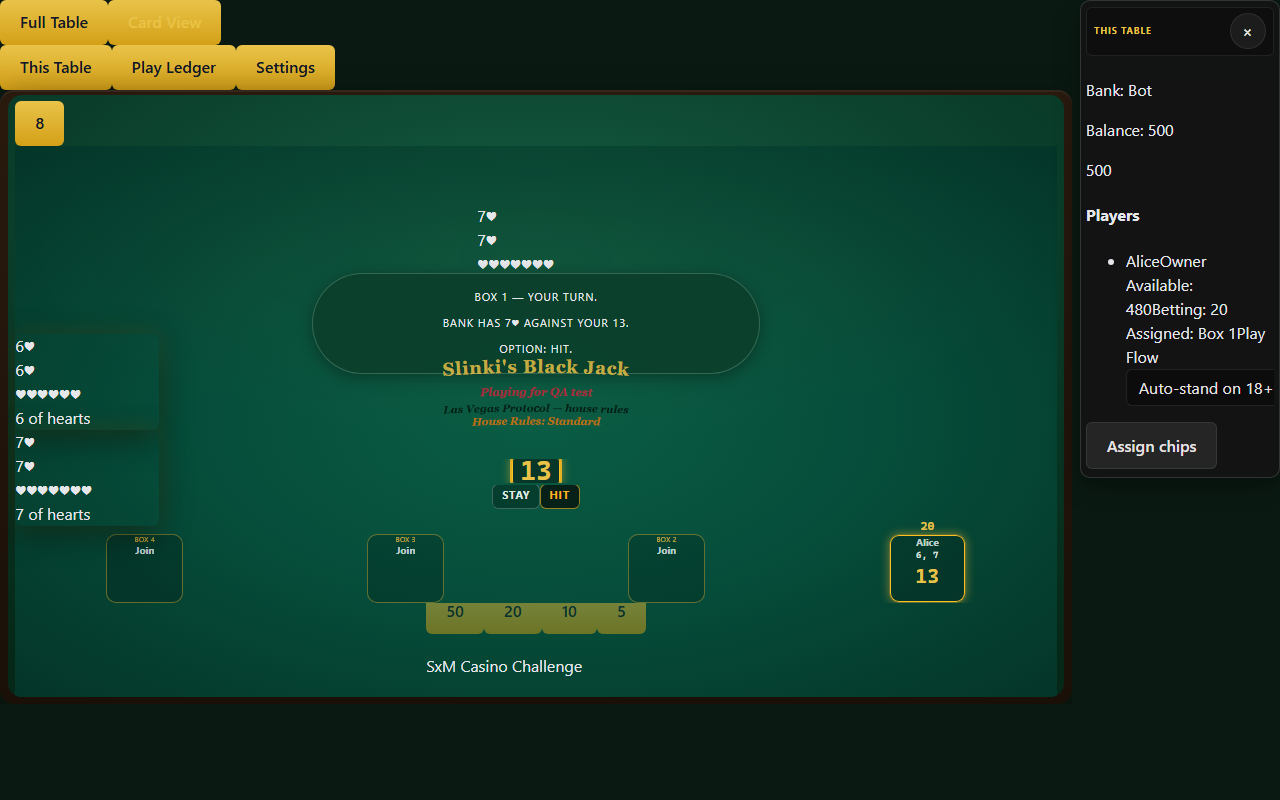
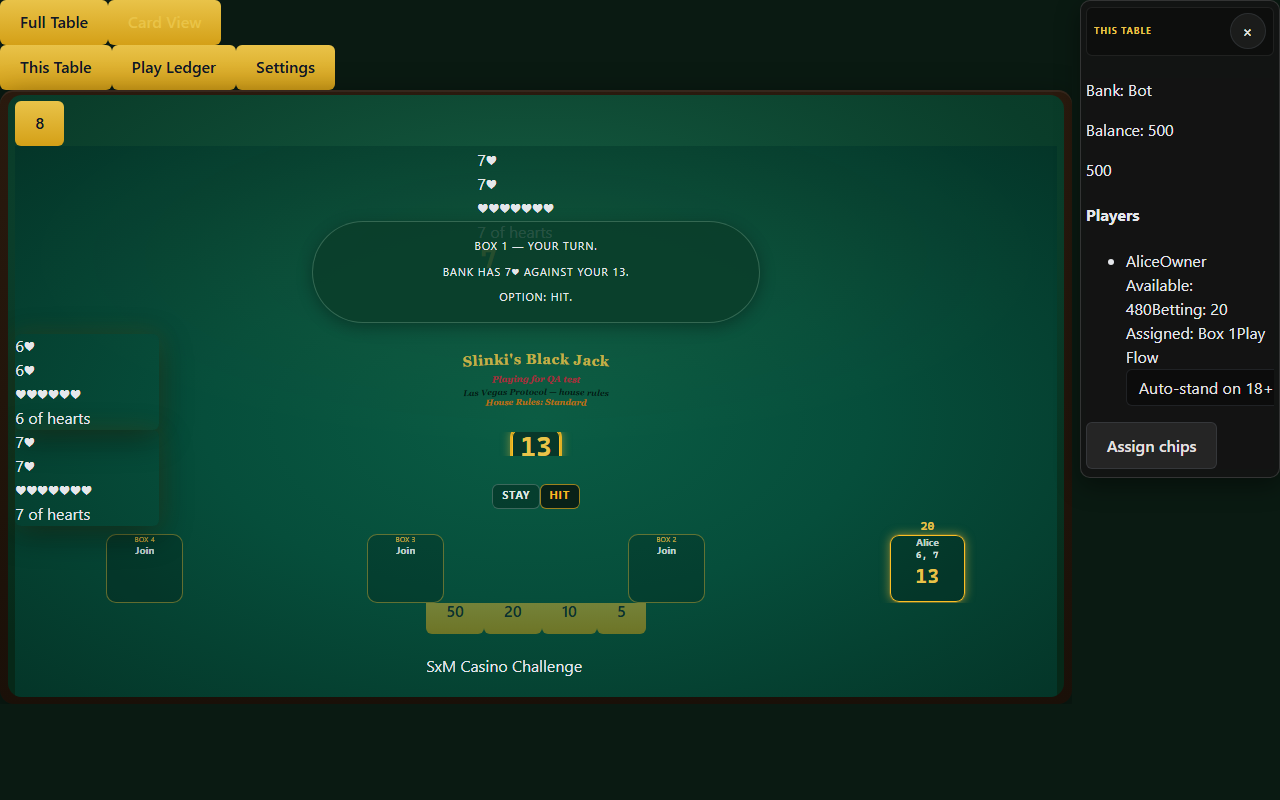
Rollback card view regressions and restore double prompts

Changed region(s): [[0.3438, 0.1875, 0.5, 0.625]]

diff --git a/src/styles/bj-card-desktop-layout.css b/src/styles/bj-card-desktop-layout.css
@@ -11,11 +11,11 @@
     --bj-card-desktop-box-value-scale: 2.2;
     --bj-desktop-cardview-hero-value-scale: 1;
     --bj-card-desktop-actions-boxes-gap: 0.3125rem;
-    --bj-desktop-zone-actions-height: var(--bj-full-desktop-zone-actions-height, 1.55rem);
+    --bj-desktop-zone-actions-height: 3.35rem;
     --bj-desktop-card-area-bottom-gap: 0;
     --bj-command-cards-gap: 0;
-    --bj-cards-actions-gap: var(--bj-full-desktop-cards-actions-gap, 0.125rem);
-    --bj-dealer-command-gap: var(--bj-full-desktop-dealer-command-gap, 0.1875rem);
+    --bj-cards-actions-gap: 0;
+    --bj-dealer-command-gap: 0;
     --bj-hero-cards-top-inset: 0;
     --bj-card-boxes-padding-bottom: 0;
     --bj-desktop-zone-boxes-tray-gap: 0;
@@ -65,11 +65,10 @@
     grid-row: command;
     grid-column: 1;
     margin: 0;
-    padding-top: var(--bj-dealer-command-gap);
-    padding-bottom: 0;
+    padding: 0;
     min-height: 0;
     align-self: stretch;
-    justify-content: flex-start;
+    justify-content: center;
     align-items: center;
   }
 
@@ -93,7 +92,7 @@
     grid-row: hero-value;
     grid-column: 1;
     margin: 0;
-    padding: 0;
+    padding: 0.28rem 0 0;
     min-height: var(--bj-desktop-zone-hero-value-height);
     max-height: var(--bj-desktop-zone-hero-value-height);
     display: flex;
@@ -145,7 +144,7 @@
   .bj-view-card-desktop .bj-table-layout-shell > .bj-table-zone--actions {
     grid-row: actions;
     grid-column: 1;
-    margin: var(--bj-cards-actions-gap) 0 -0.8125rem;
+    margin: 0 0 -0.8125rem;
     padding: 0;
     min-height: var(--bj-desktop-zone-actions-height);
     max-height: var(--bj-desktop-zone-actions-height);
@@ -573,6 +572,32 @@
   .bj-view-card-desktop .bj-arc--player-boxes.bj-arc--visible-7 {
     --bj-cardview-desktop-mini-hand-width: var(--bj-player-box-width);
     --bj-cardview-desktop-mini-hand-height: var(--bj-player-box-height);
+  }
+
+  .bj-view-card-desktop .dealer-block__grid {
+    display: flex;
+    flex-direction: column;
+    align-items: center;
+    position: relative;
+    width: 100%;
+  }
+
+  .bj-view-card-desktop .dealer-block__commentary-col {
+    position: absolute;
+    left: 0;
+    top: 0.1rem;
+    width: 4.75rem;
+    z-index: 2;
+  }
+
+  .bj-view-card-desktop .dealer-block__center-col {
+    grid-area: unset;
+    width: 100%;
+    max-width: 20rem;
+    margin-inline: auto;
+    border: none;
+    background: transparent;
+    box-shadow: none;
   }
 
   .bj-view-card-desktop .bj-value-chips--with-label {

diff --git a/src/styles/bj-card-layout.css b/src/styles/bj-card-layout.css
@@ -428,9 +428,34 @@
 }
 
 /*
- * Card View mobile — hero cards/value inside the shared cards zone only.
- * Shell zone placement matches Mobile Full Table via bj-table-shared.css.
+ * Card View layout guards — spacing + top-safe hero fan.
+ * Lives here (not bj-table-shared) to avoid unpaired mobile shell parity rules.
  */
+.bj-view-card-mobile {
+  --bj-cardview-command-cards-gap: 0.25rem;
+  --bj-cardview-cards-actions-gap: 0.35rem;
+  --bj-cardview-hero-top-inset: 0.42rem;
+  --bj-command-cards-gap: var(--bj-cardview-command-cards-gap);
+  --bj-cards-actions-gap: var(--bj-cardview-cards-actions-gap);
+  --bj-hero-cards-top-inset: var(--bj-cardview-hero-top-inset);
+  --bj-mobile-zone-command-height: 2.1rem;
+  --bj-mobile-zone-actions-height: 2.35rem;
+}
+
+.bj-view-card-mobile .bj-table-layout-shell .bj-table-zone--summary {
+  padding-bottom: 0;
+  justify-content: flex-start;
+}
+
+.bj-view-card-mobile .bj-table-layout-shell .bj-table-zone--cards.bj-cards-area--hero {
+  justify-content: flex-start;
+  align-items: stretch;
+  overflow: hidden;
+  margin-top: var(--bj-cardview-command-cards-gap);
+  padding-top: var(--bj-cardview-hero-top-inset);
+  position: relative;
+}
+
 .bj-view-card-mobile .bj-table-layout-shell .bj-table-zone--cards.bj-cards-area--hero .bj-phone-view__hero-center {
   display: flex;
   flex-direction: column;
@@ -457,6 +482,31 @@
 .bj-view-card-mobile .bj-table-layout-shell .bj-table-zone--cards.bj-cards-area--hero .bj-phone-view__cards {
   max-height: 100%;
   overflow: hidden;
+}
+
+.bj-view-card-mobile .bj-table-layout-shell > .bj-table-zone--hero-value .bj-phone-view__hand-meta {
+  flex: 0 0 auto;
+  min-height: var(--bj-cardview-hero-value-band-height);
+  max-height: var(--bj-cardview-hero-value-band-height);
+  width: 100%;
+  margin: 0;
+  padding: 0.1rem 0 0;
+  overflow: visible;
+  position: relative;
+  align-items: center;
+  justify-content: center;
+  display: flex;
+  flex-direction: column;
+}
+
+.bj-view-card-mobile
+  .bj-table-layout-shell
+  > .bj-table-zone--hero-value
+  .bj-card-view__hero-value.bj-phone-view__total--hero {
+  font-size: calc(var(--bj-seat-total-size) * 1.35);
+  min-height: auto;
+  max-height: none;
+  line-height: 1.1;
 }
 
 .bj-view-card-mobile .bj-table-layout-shell .bj-table-zone--cards.bj-cards-area--hero .bj-phone-view__play-area {

diff --git a/src/components/cardViewReuseFixes.test.tsx b/src/components/cardViewReuseFixes.test.tsx
@@ -142,6 +142,41 @@ describe('Card View reuse fixes', () => {
     expect(PANEL_SRC).toContain('borderState.isTurn ? BOX_BORDER_TURN :');
   });
 
+  it('desktop Full Table applies active-turn box border on player boxes during player turn', () => {
+    simulatedWidth = 1280;
+    const html = renderPanel(withView(playingCardViewState(), 'full'));
+    expect(html).toContain('bj-view-full-desktop');
+    expect(html).toContain(BOX_BORDER_TURN);
+  });
+
+  it('desktop Card View shows Double in command zone when legal', () => {
+    simulatedWidth = 1280;
+    let state = splitEligibleCardViewState();
+    const deck = state.deck!;
+    const box1 = boxPlayerId(state, 1)!;
+    const handKey = blackjackHandKey(box1, 0);
+    state = {
+      ...state,
+      blackjack: {
+        ...state.blackjack!,
+        playerHands: {
+          [handKey]: {
+            ...state.blackjack!.playerHands[handKey]!,
+            cardIds: [findCardId(deck, '5'), findCardId(deck, '6')],
+          },
+        },
+      },
+    };
+    const html = renderPanel(state);
+    const commandZone =
+      html.split(TABLE_UX.tableZoneSummary)[1]?.split(TABLE_UX.tableZoneActions)[0] ?? '';
+    expect(commandZone).toContain('>Double<');
+    const actionsZone =
+      html.split(TABLE_UX.tableZoneActions)[1]?.split(TABLE_UX.tableZoneBoxes)[0] ?? '';
+    expect(actionsZone).toContain('ds-btn--hit');
+    expect(actionsZone).toContain('ds-btn--stand');
+  });
+
   it('desktop Card View routes optional play overlay through command zone', () => {
     expect(PANEL_SRC).toContain('renderOptionalPlayDecisionOverlay');
     expect(PANEL_SRC).toContain('if (!isFullTableDesktop)');

diff --git a/src/components/NewTableOverlay.css b/src/components/NewTableOverlay.css
@@ -8,13 +8,12 @@
   padding: 1rem;
   background: rgb(0 0 0 / 0.55);
   pointer-events: auto;
-  overflow: hidden;
 }
 
 .new-table-overlay__panel {
   display: flex;
   flex-direction: column;
-  width: min(100%, 56rem);
+  width: min(100%, 22rem);
   max-height: min(88dvh, 40rem);
   border-radius: 12px;
   border: 1px solid rgb(255 255 255 / 0.16);
@@ -52,20 +51,9 @@
 .new-table-overlay__body {
   flex: 1 1 auto;
   min-height: 0;
-  overflow-x: hidden;
   overflow-y: auto;
   padding: 0.85rem 0.9rem 1rem;
   -webkit-overflow-scrolling: touch;
-}
-
-.new-table-overlay__body .table-stake-panel--embedded {
-  width: 100%;
-  min-width: 0;
-}
-
-.new-table-overlay__body .table-stake-panel--embedded .table-stake-panel__grid {
-  width: 100%;
-  min-width: 0;
 }
 
 @media (max-width: 720px) {
@@ -77,18 +65,12 @@
   }
 
   .new-table-overlay__panel {
-    width: min(100%, 28rem);
+    width: min(100%, 22rem);
     max-height: min(90dvh, calc(100dvh - 2rem));
     border-radius: 12px 12px 0 0;
   }
 
   .new-table-overlay__body {
     padding: 0.75rem 0.8rem 0.9rem;
-  }
-
-  .new-table-overlay__body .table-stake-panel--embedded .table-stake-panel__grid {
-    display: flex;
-    flex-direction: column;
-    gap: 0.85rem;
   }
 }

diff --git a/src/components/newTableOverlay.test.tsx b/src/components/newTableOverlay.test.tsx
@@ -22,12 +22,8 @@ describe('NewTableOverlay shared shell', () => {
     expect(OVERLAY_CSS).toMatch(/\.new-table-overlay[\s\S]*z-index:\s*50/);
   });
 
-  it('uses a wide centered panel on desktop and single-column embedded grid on mobile', () => {
-    expect(OVERLAY_CSS).toMatch(/\.new-table-overlay__panel[\s\S]*width:\s*min\(100%,\s*56rem\)/);
-    expect(OVERLAY_CSS).toMatch(/overflow-x:\s*hidden/);
-    expect(OVERLAY_CSS).toMatch(
-      /@media \(max-width:\s*720px\)[\s\S]*table-stake-panel--embedded[\s\S]*flex-direction:\s*column/,
-    );
+  it('uses a compact centered panel on desktop', () => {
+    expect(OVERLAY_CSS).toMatch(/\.new-table-overlay__panel[\s\S]*width:\s*min\(100%,\s*22rem\)/);
   });
 
   it('renders dialog markup with overlay class', () => {

diff --git a/src/components/frozenLayoutViewIntegrity.test.ts b/src/components/frozenLayoutViewIntegrity.test.ts
@@ -20,7 +20,7 @@ const FROZEN_LAYOUT_FILE_SHA256: Record<string, string> = {
   'src/styles/bj-full-table-card-area.css':
[1 lines of base64/hex data omitted]
   'src/styles/bj-card-desktop-layout.css':
[2 lines of base64/hex data omitted]
 };
 
 describe('frozen layout view integrity', () => {

diff --git a/src/components/optionalPlayDealPacing.test.tsx b/src/components/optionalPlayDealPacing.test.tsx
@@ -12,6 +12,7 @@ import {
   boxPlayerId,
   findCardId,
   tableAfterStartPlaying,
+  tableWithClaimedBox,
 } from '../engine/blackjack/sanity/fixtures';
 import { claimBoxSlot } from '../engine/session';
 import { blackjackHandKey, confirmBoxStake, addChipToBoxStake } from '../engine/blackjack';
